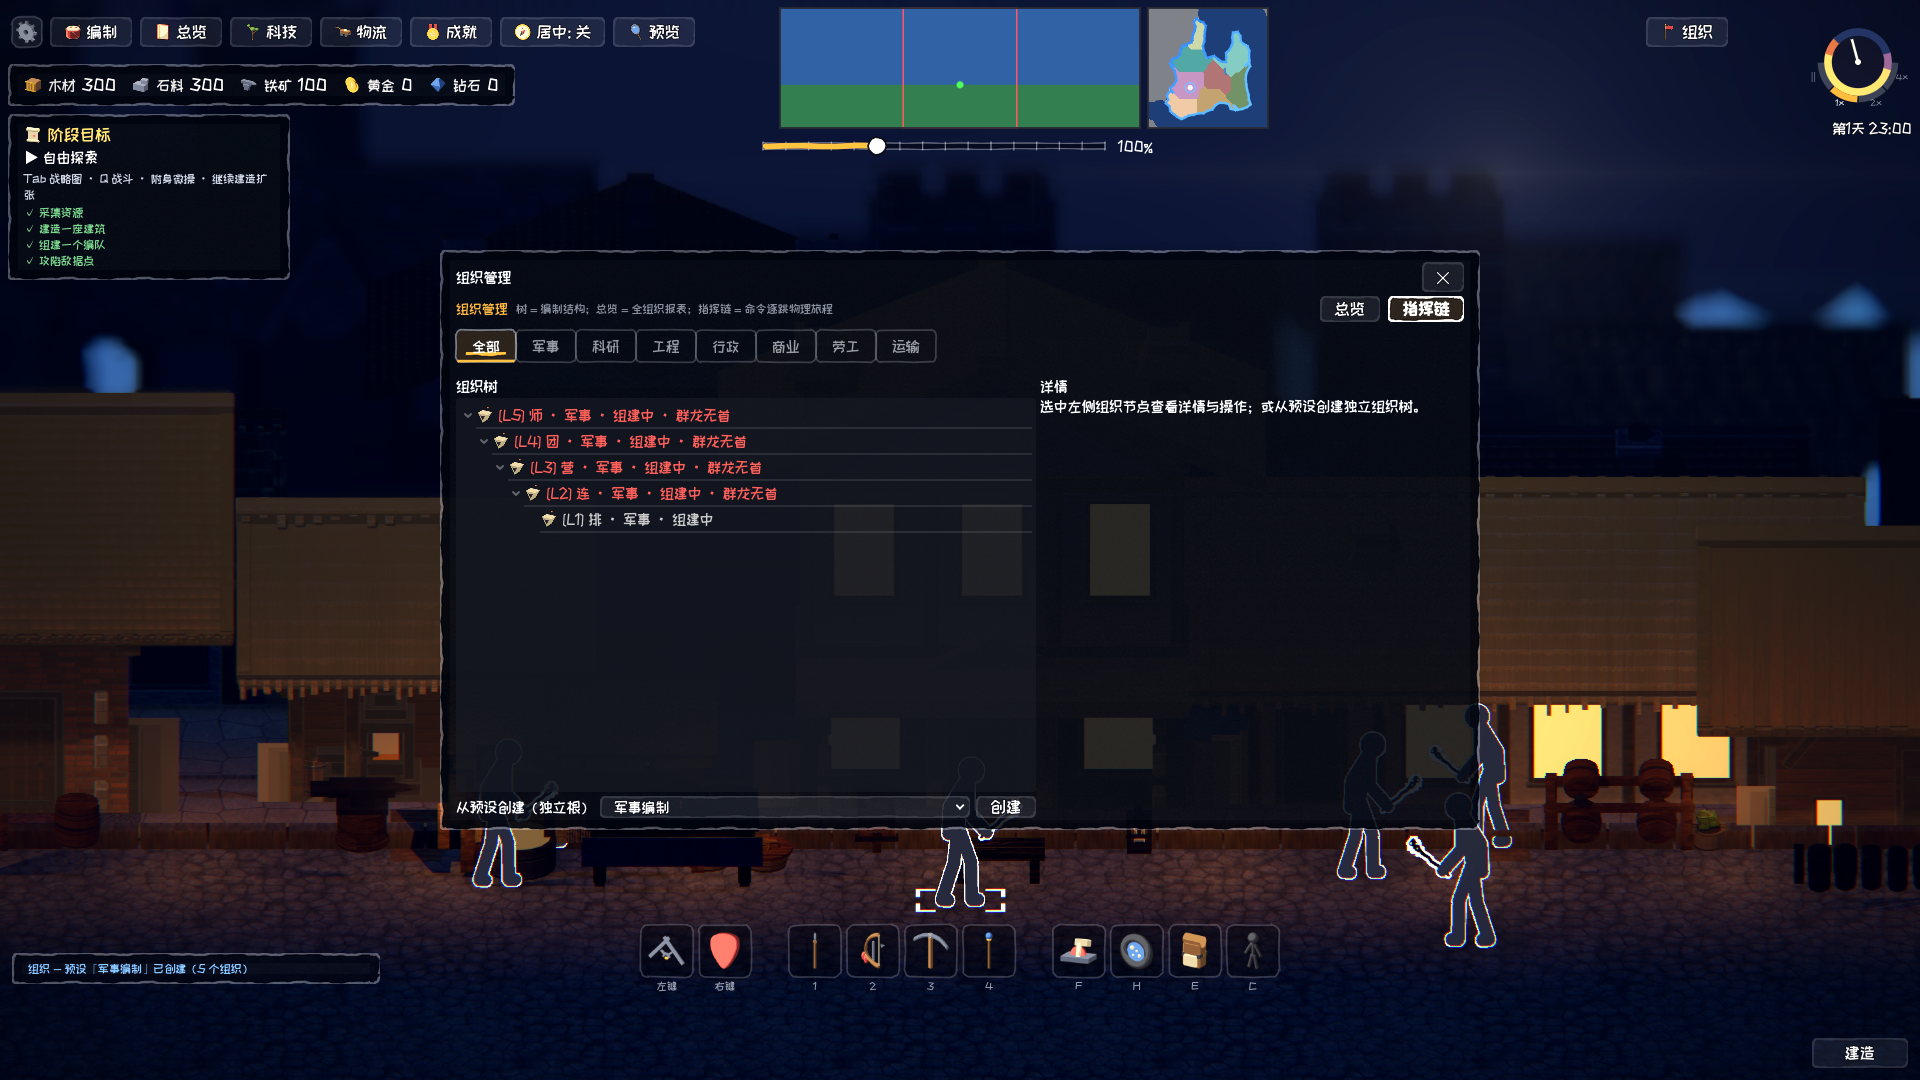
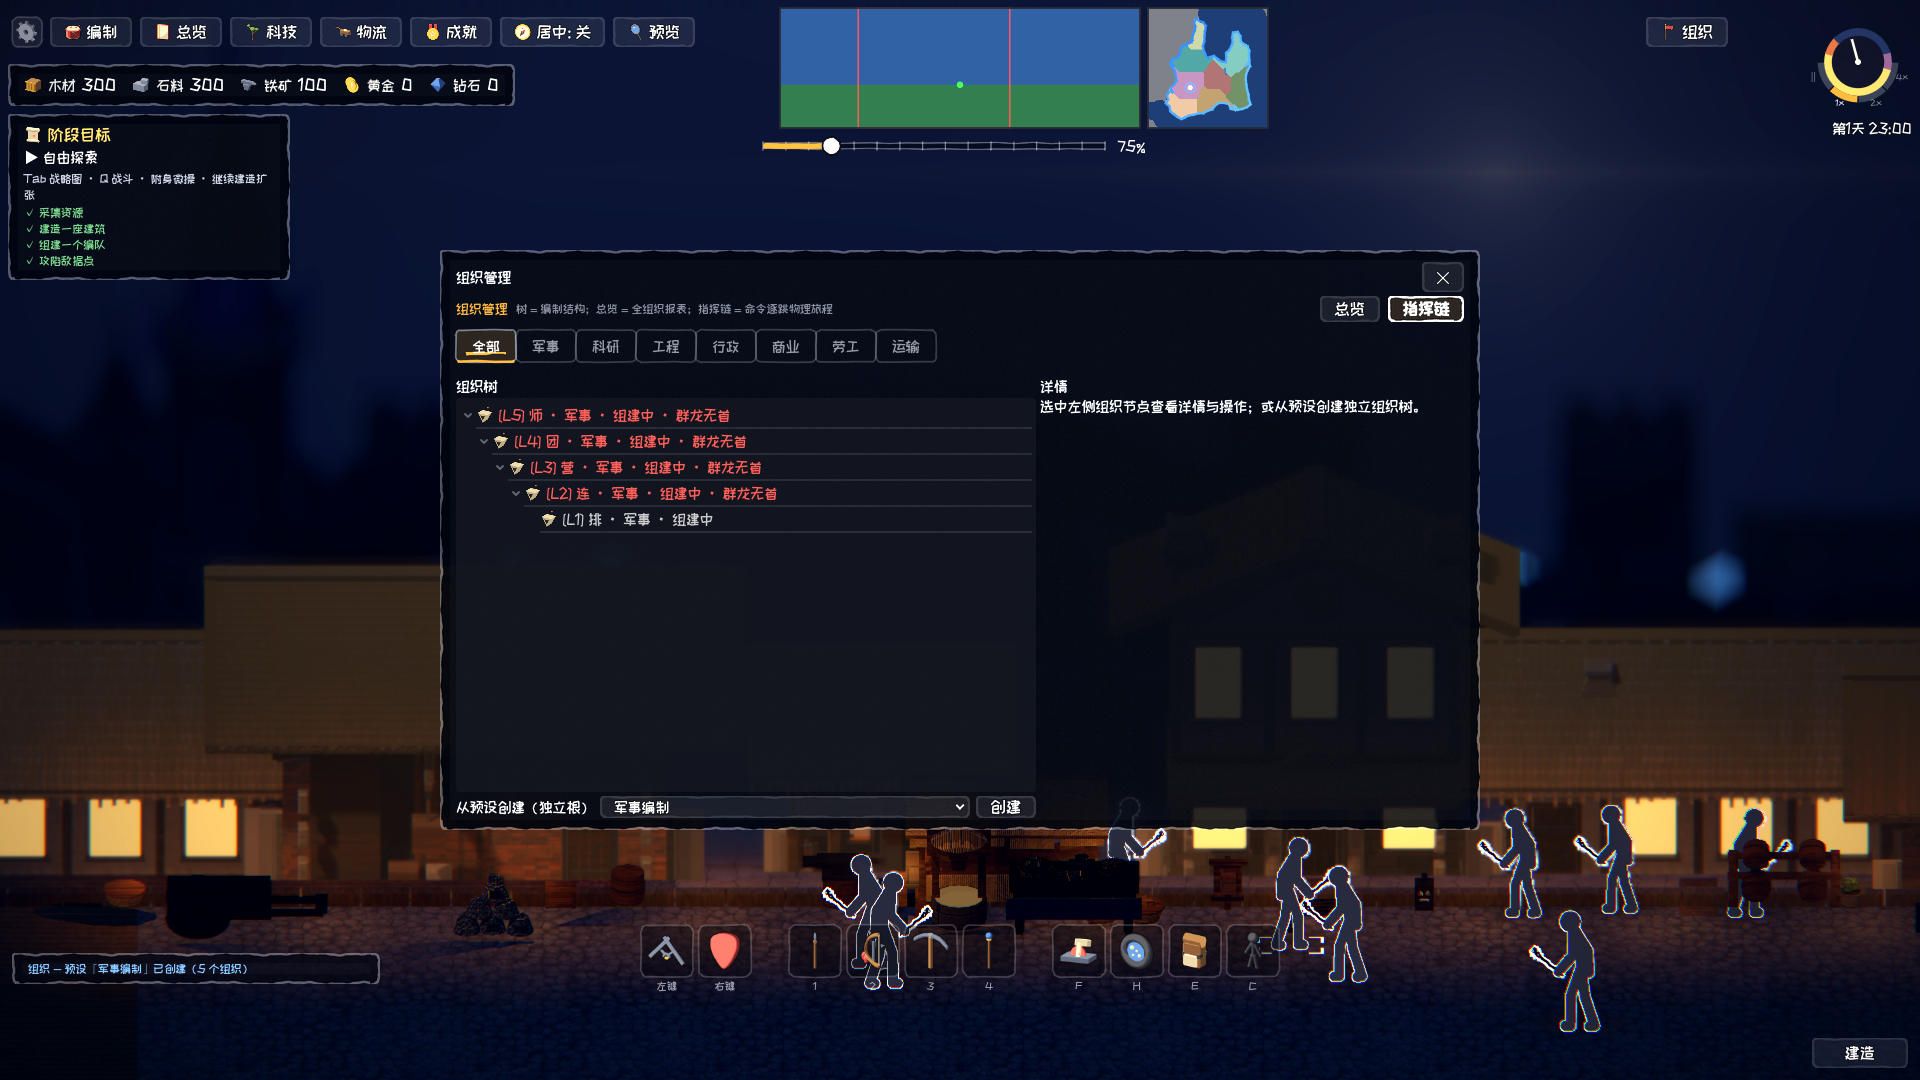
docs(README): 战场与编队撤第四张（与主街图同机位重复）改一行三列；主街场景两排背景+第二排景深重截——编队夜航/暂停/设置/HD-2D主街四图更新；驱动加宽景镜头

diff --git a/README.md b/README.md
@@ -17,10 +17,9 @@
 
 **战场与编队**
 
-| | |
-|---|---|
-| ![遭遇战开场](docs/演示/遭遇战开场.png) | ![编队管理与夜空](docs/演示/编队与夜空.png) |
-| ![小地图](docs/演示/小地图.png) | ![村庄建造与阶段目标](docs/演示/村庄建造.png) |
+| | | |
+|---|---|---|
+| ![遭遇战开场](docs/演示/遭遇战开场.png) | ![编队管理与夜空](docs/演示/编队与夜空.png) | ![小地图](docs/演示/小地图.png) |
 
 **程序化大陆战略图（Tab/M 随时打开）**
 
